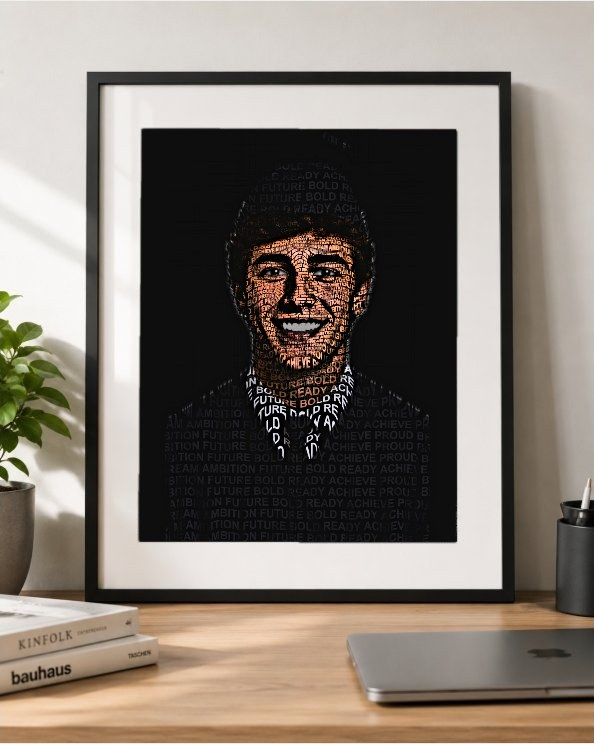
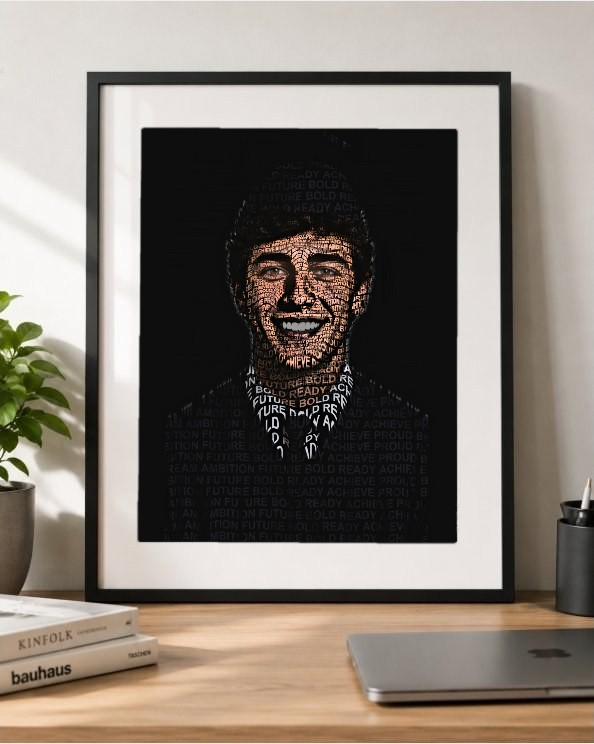
Marketing: refresh typortrait.com showcases (new engine) + add Keeper landing page
Re-rendered every typortrait.com showcase portrait through the current engine
(faithful eyes, lids, natural colour, raccoon fix): hero, the three "one photo,
every look" samples, the use-case renders, and the three framed-room mockups
(re-composited into their frames). Cache-bust v=3 -> v=4.

New co-branded Keeper landing page (marketing/keeper/) cloned from Loved in Words,
re-skinned to Keeper's stone/slate palette, CTAs to ?brand=keeper, fabricated
testimonials removed (a pitch page shouldn't invent quotes). Hero + before/after
is Daryl; gallery is three memorial examples. For the typortrait.com/keeper link.

lovedinwords.com gallery deliberately NOT re-rendered here: it uses the tonal
"words" engine, which is degraded locally (no cairosvg) -- rendering it here would
drop tonal modulation and hurt it. Refresh that on the prod container instead.

Changed region(s): [[0.3939, 0.3091, 0.6364, 0.6183], [0.2121, 0.5565, 0.2424, 0.6183], [0.2121, 0.6801, 0.2424, 0.711]]

diff --git a/typography_engine/marketing/keeper/index.html b/typography_engine/marketing/keeper/index.html
@@ -1,0 +1,179 @@
+<!DOCTYPE html>
+<html lang="en">
+<head>
+<meta charset="UTF-8" />
+<meta name="viewport" content="width=device-width, initial-scale=1" />
+<title>Keeper — a remembrance portrait made from the words that describe them</title>
+<meta name="description" content="A keepsake portrait for the families you serve: a photo of a loved one becomes a likeness composed of the words that remember them — their name, their dates, the way they were loved. A remembrance keepsake, co-branded for Keeper. Free to create and preview." />
+<meta name="robots" content="noindex" />
+<meta property="og:type" content="website" />
+<meta property="og:title" content="Keeper — a portrait of a life, in the words that remember them" />
+<meta property="og:description" content="A memorial keepsake made from a photo and the words that captured who they were." />
+<meta property="og:image" content="https://typortrait.com/keeper/portrait.png" />
+<style>
+@font-face{font-family:'Inter';font-style:normal;font-weight:100 900;font-display:swap;src:url('https://app.typortrait.com/static/fonts/InterVariable.woff2') format('woff2')}
+:root{
+  /* Keeper skin — a cooler stone/slate on warm ivory. */
+  --navy:#3b4a57; --ink:#2b333b; --paper:#f1f0ec; --card:#fbfaf7;
+  --muted:#71776f; --line:#e3e1da;
+  --sans:"Inter",-apple-system,BlinkMacSystemFont,"Segoe UI",Roboto,Helvetica,Arial,sans-serif;
+  --shadow:0 18px 50px rgba(50,55,60,.10);
+}
+*{box-sizing:border-box}
+html{scroll-behavior:smooth}
+body{margin:0; background:var(--paper); color:var(--ink); font-family:var(--sans); line-height:1.6; letter-spacing:-.011em; -webkit-font-smoothing:antialiased; -moz-osx-font-smoothing:grayscale}
+.wrap{max-width:760px; margin:0 auto; padding:0 22px}
+a{color:var(--navy)}
+.brandbar{display:flex; align-items:center; justify-content:center; gap:14px; padding:26px 0 6px; color:var(--muted); font-size:13px; letter-spacing:.01em}
+.brandbar .b{font-weight:800; color:var(--navy); letter-spacing:-.02em; font-size:18px}
+.brandbar .lockup{display:inline-flex; align-items:center; gap:9px}
+.brandbar .heart{display:inline-flex; align-items:center; line-height:0}
+.hero{text-align:center; padding:34px 0 10px}
+.hero .eyebrow{color:var(--muted); font-size:13px; letter-spacing:.14em; text-transform:uppercase; margin-bottom:18px}
+.hero h1{font-weight:800; letter-spacing:-.035em; font-size:clamp(30px,6vw,46px); line-height:1.08; color:var(--navy); margin:0 auto 16px; max-width:16ch}
+.hero p.sub{color:var(--ink); font-size:clamp(16px,2.4vw,19px); max-width:48ch; margin:0 auto 26px}
+.shot{width:100%; max-width:440px; border-radius:16px; box-shadow:var(--shadow); display:block; margin:6px auto 0}
+.ba{position:relative; width:100%; max-width:440px; border-radius:18px; overflow:hidden; box-shadow:var(--shadow); margin:10px auto 0; touch-action:none; user-select:none; cursor:ew-resize}
+.ba img{display:block; width:100%; pointer-events:none}
+.ba-before{position:absolute; top:0; left:0; height:100%; width:45%; overflow:hidden}
+.ba-before img{position:absolute; top:0; left:0; height:100%; width:auto; max-width:none}
+.ba-line{position:absolute; top:0; bottom:0; left:45%; width:2px; background:rgba(255,255,255,.92); transform:translateX(-1px); box-shadow:0 0 6px rgba(0,0,0,.25)}
+.ba-grip{position:absolute; top:50%; left:45%; width:38px; height:38px; margin:-19px 0 0 -19px; border-radius:50%; background:rgba(255,255,255,.96); box-shadow:0 2px 10px rgba(0,0,0,.28); display:flex; align-items:center; justify-content:center; color:var(--navy); font-size:16px}
+.ba-tag{position:absolute; top:12px; font-size:10.5px; letter-spacing:.09em; text-transform:uppercase; color:#fff; background:rgba(59,74,87,.6); padding:4px 9px; border-radius:999px}
+.ba-tag.l{left:12px} .ba-tag.r{right:12px}
+.zoomlink{display:inline-block; margin-top:14px; background:none; border:none; color:var(--navy); font-family:var(--sans); font-size:14px; font-weight:600; letter-spacing:-.01em; cursor:pointer}
+.zoomlink:hover{opacity:.8}
+.zoomview{position:fixed; inset:0; background:rgba(8,8,10,.95); z-index:60; display:none; align-items:flex-start; justify-content:center; overflow:auto; padding:30px 16px}
+.zoomview.on{display:flex}
+.zoomview img{max-width:640px; width:100%; height:auto; border-radius:8px; display:block; box-shadow:0 20px 60px rgba(0,0,0,.5)}
+.zoomclose{position:fixed; top:14px; right:16px; width:42px; height:42px; border-radius:50%; border:none; background:rgba(255,255,255,.94); color:var(--navy); font-size:24px; line-height:1; cursor:pointer; z-index:61; box-shadow:0 2px 10px rgba(0,0,0,.3)}
+.btn{display:inline-block; background:var(--navy); color:#fff; text-decoration:none; font-weight:700; font-size:17px; letter-spacing:-.01em; padding:15px 34px; border-radius:999px; transition:transform .15s ease, box-shadow .15s ease; box-shadow:0 8px 24px rgba(59,74,87,.18)}
+.btn:hover{transform:translateY(-1px); box-shadow:0 12px 30px rgba(59,74,87,.24)}
+.free{display:block; color:var(--muted); font-size:13.5px; margin-top:12px}
+section{padding:46px 0}
+h2{font-weight:800; letter-spacing:-.03em; font-size:clamp(22px,3.6vw,30px); color:var(--navy); text-align:center; margin:0 0 8px}
+.lede{color:var(--muted); text-align:center; max-width:48ch; margin:0 auto 30px}
+.steps{display:grid; gap:16px}
+@media(min-width:640px){.steps{grid-template-columns:repeat(3,1fr)}}
+.step{background:var(--card); border:1px solid var(--line); border-radius:16px; padding:22px}
+.step .n{width:30px; height:30px; border-radius:50%; background:var(--navy); color:#fff; font-weight:700; font-size:14px; display:flex; align-items:center; justify-content:center; margin-bottom:12px}
+.step h3{margin:0 0 6px; font-size:16.5px; color:var(--navy); font-weight:700; letter-spacing:-.01em}
+.step p{margin:0; color:var(--muted); font-size:14.5px}
+.gallery{display:grid; gap:16px; margin:0; grid-template-columns:repeat(auto-fit,minmax(210px,1fr))}
+.gcard{margin:0; background:var(--card); border:1px solid var(--line); border-radius:16px; overflow:hidden; box-shadow:var(--shadow)}
+.gcard img{width:100%; display:block; aspect-ratio:4/5; object-fit:cover}
+.gcard figcaption{padding:13px 16px; color:var(--muted); font-size:13.5px; text-align:center; font-style:italic; line-height:1.45}
+.facts{display:flex; flex-wrap:wrap; justify-content:center; gap:10px 18px; color:var(--ink); font-size:15px; text-align:center}
+.facts b{color:var(--navy)}
+.dot{color:var(--line)}
+.reassure{text-align:center; color:var(--muted); max-width:46ch; margin:0 auto}
+.close{text-align:center; padding:8px 0 56px}
+footer{border-top:1px solid var(--line); padding:26px 0 40px; text-align:center; color:var(--muted); font-size:13px}
+footer a{color:var(--muted); text-decoration:none}
+footer .by{display:block; margin-top:8px; font-size:12px; color:var(--muted); opacity:.85}
+</style>
+</head>
+<body>
+<div class="wrap">
+
+  <div class="brandbar">
+    <span class="lockup">
+      <span class="heart" aria-hidden="true"><svg viewBox="0 0 64 64" width="22" height="22" fill="none"><path d="M32 54s-1.2-1-3.3-2.7C16.8 41.7 8 34 8 23.8 8 16.6 13.4 11 20.4 11c4.3 0 8.5 2.2 11.6 6.1C35.1 13.2 39.3 11 43.6 11 50.6 11 56 16.6 56 23.8 56 34 47.2 41.7 35.3 51.3 33.2 53 32 54 32 54z" stroke="#7d8a93" stroke-width="3.3" stroke-linejoin="round"/></svg></span>
+      <span class="b">Keeper Memorials</span>
+    </span>
+  </div>
+
+  <header class="hero">
+    <div class="eyebrow">In loving memory</div>
+    <h1>A keepsake portrait, in the words that remember them.</h1>
+    <p class="sub">A favorite photo of someone a family has lost becomes a portrait of their likeness — composed of their name, their dates, and the words that captured who they were. Printed, framed, and ready to keep or to give.</p>
+    <a class="btn" href="https://app.typortrait.com/?brand=keeper">Create a remembrance keepsake</a>
+    <span class="free">Free to create and preview — order only if it feels right.</span>
+    <img class="shot" src="portrait.png?v=1" alt="A lifelike memorial portrait made from words" />
+    <button type="button" class="zoomlink" id="zoomBtn">&#128269; View the words up close</button>
+  </header>
+
+  <section>
+    <h2>Made from a photo and the words you choose</h2>
+    <p class="lede">Drag to see the change — their photograph becomes a portrait of the words that remember them.</p>
+    <div class="ba" id="ba" aria-label="Drag to compare the photograph and the portrait made from words">
+      <img class="ba-after" src="portrait.png?v=1" alt="A portrait made from the words that describe him" />
+      <div class="ba-before" id="baBefore"><img src="before.jpg?v=1" alt="The original photograph" /></div>
+      <div class="ba-line" id="baLine"></div>
+      <div class="ba-grip" id="baGrip">&#8596;</div>
+      <span class="ba-tag l">their photo</span>
+      <span class="ba-tag r">in their words</span>
+    </div>
+  </section>
+
+  <section>
+    <h2>A few remembrances</h2>
+    <p class="lede">Each one is made entirely from the words a family chose — a name, the dates, the way they were loved.</p>
+    <div class="gallery">
+      <figure class="gcard"><img src="example-1.png?v=1" loading="lazy" alt="A memorial word-portrait of a mother, formed from words like mother, grace, faith and gentle" /><figcaption>Mother, Grace, Faith, Gentle — woven into her likeness.</figcaption></figure>
+      <figure class="gcard"><img src="example-2.png?v=1" loading="lazy" alt="A memorial word-portrait of a grandmother, formed from words like grandma, warm, faithful and patient" /><figcaption>Grandma, Warm, Faithful, Patient — the words that were her.</figcaption></figure>
+      <figure class="gcard"><img src="example-3.png?v=1" loading="lazy" alt="A memorial word-portrait of a father, formed from words like father, grandpa, mentor and wise" /><figcaption>Father, Grandpa, Mentor, Wise — every word that was him.</figcaption></figure>
+    </div>
+  </section>
+
+  <section>
+    <h2>How it comes together</h2>
+    <p class="lede">Three quiet steps. No design skills, no rush.</p>
+    <div class="steps">
+      <div class="step"><div class="n">1</div><h3>Add a photo</h3><p>A clear photo of their loved one — the one that feels like them.</p></div>
+      <div class="step"><div class="n">2</div><h3>Add the words</h3><p>Their name, the traits the family remembers, a date, a line from a tribute.</p></div>
+      <div class="step"><div class="n">3</div><h3>Order the keepsake</h3><p>A framed or archival print for the home and the family — the high-resolution digital file comes free with it.</p></div>
+    </div>
+  </section>
+
+  <section style="padding-top:20px">
+    <div class="facts">
+      <span>Prints from <b>$16</b></span><span class="dot">•</span>
+      <span>Family sets from <b>$67</b></span><span class="dot">•</span>
+      <span>High-res digital file <b>included free</b></span><span class="dot">•</span>
+      <span><b>Watermark-free</b></span><span class="dot">•</span>
+      <span>Or a digital keepsake <b>$14.99</b></span>
+    </div>
+  </section>
+
+  <section style="padding-top:6px">
+    <p class="reassure">Free to create and preview — there's no cost until a family decides to order. Their photo stays private, and nothing is shared.</p>
+    <div class="close">
+      <a class="btn" href="https://app.typortrait.com/?brand=keeper">Begin a portrait</a>
+    </div>
+  </section>
+
+</div>
+<footer>
+  Keeper Memorials &nbsp;·&nbsp;
+  <a href="https://app.typortrait.com/terms">Terms</a> · <a href="https://app.typortrait.com/privacy">Privacy</a> · <a href="https://app.typortrait.com/data-request">Manage my data</a>
+  <span class="by">A remembrance keepsake, powered by Typortrait.</span>
+</footer>
+<div class="zoomview" id="zoomView">
+  <button class="zoomclose" id="zoomClose" aria-label="Close">&times;</button>
+  <img src="portrait.png?v=1" alt="The portrait up close — made from the words that remember them" />
+</div>
+<script>
+(function(){
+  var ba=document.getElementById('ba'); if(!ba) return;
+  var before=document.getElementById('baBefore'), line=document.getElementById('baLine'), grip=document.getElementById('baGrip');
+  function set(pct){ pct=Math.max(6,Math.min(94,pct)); before.style.width=pct+'%'; line.style.left=pct+'%'; grip.style.left=pct+'%'; }
+  function at(e){ var r=ba.getBoundingClientRect(); var cx=(e.touches?e.touches[0].clientX:e.clientX)-r.left; set(cx/r.width*100); }
+  var on=false;
+  ba.addEventListener('pointerdown', function(e){ on=true; try{ba.setPointerCapture(e.pointerId);}catch(_){} at(e); });
+  ba.addEventListener('pointermove', function(e){ if(on) at(e); });
+  window.addEventListener('pointerup', function(){ on=false; });
+  set(45);
+})();
+(function(){
+  var z=document.getElementById('zoomView'), btn=document.getElementById('zoomBtn'), cls=document.getElementById('zoomClose');
+  if(!z||!btn) return;
+  function open(){ z.classList.add('on'); document.body.style.overflow='hidden'; }
+  function close(){ z.classList.remove('on'); document.body.style.overflow=''; }
+  btn.addEventListener('click', open); cls.addEventListener('click', close);
+  z.addEventListener('click', function(e){ if(e.target===z) close(); });
+  document.addEventListener('keydown', function(e){ if(e.key==='Escape') close(); });
+})();
+</script>
+</body>
+</html>

diff --git a/typography_engine/marketing/_deploy/index.html b/typography_engine/marketing/_deploy/index.html
@@ -12,7 +12,7 @@
 <meta name="robots" content="index,follow" />
 <meta name="p:domain_verify" content="f1db28b51e8847f102c978992b645d49"/>
 <meta name="theme-color" content="#faf9f7" />
-<link rel="preload" as="image" href="/hero-after.jpg?v=3" fetchpriority="high" />
+<link rel="preload" as="image" href="/hero-after.jpg?v=4" fetchpriority="high" />
 <link rel="icon" href="/favicon.ico" sizes="any" />
 <link rel="icon" type="image/png" sizes="32x32" href="/favicon-32.png" />
 <link rel="apple-touch-icon" href="/apple-touch-icon.png" />
@@ -265,7 +265,7 @@ footer a:hover{color:#fff}
 
       <figure class="hero-ba">
         <div class="ba-frame" id="baFrame" tabindex="0" role="slider" aria-label="Before and after — drag or use arrow keys to compare the photo with the Typortrait" aria-orientation="horizontal" aria-valuemin="0" aria-valuemax="100" aria-valuenow="50">
-          <img class="ba-after" id="baAfter" src="/hero-after.jpg?v=3" width="1100" height="1100" fetchpriority="high" decoding="async" alt="A Typortrait portrait composed entirely from the words below" />
+          <img class="ba-after" id="baAfter" src="/hero-after.jpg?v=4" width="1100" height="1100" fetchpriority="high" decoding="async" alt="A Typortrait portrait composed entirely from the words below" />
           <div class="ba-before-wrap" id="baBeforeWrap"><img class="ba-before" id="baBefore" src="/hero-before.jpg" width="1100" height="1100" fetchpriority="high" decoding="async" alt="The original photo, before Typortrait" /></div>
           <div class="ba-divider" id="baDivider"><span class="ba-knob">&#8596;</span></div>
           <span class="ba-tag ba-tag-l">Photo</span>
@@ -313,9 +313,9 @@ footer a:hover{color:#fff}
       <h2 class="statement">One photo, every look.</h2>
       <p class="support">The same face, a few different styles — for anniversaries, memorials, weddings, birthdays and more.</p>
       <div class="cards">
-        <figure class="shot"><button type="button" class="shot-btn js-zoom" data-full="/sample-1.jpg?v=3" aria-label="Enlarge sample — Navy, Sculpt style"><img src="/sample-1.jpg?v=3" width="720" height="720" loading="lazy" alt="Typortrait Sculpt portrait — navy, photographic word colour" /></button><figcaption>Navy &middot; Sculpt</figcaption></figure>
-        <figure class="shot"><button type="button" class="shot-btn js-zoom" data-full="/sample-2.jpg?v=3" aria-label="Enlarge sample — Ivory, Sculpt style"><img src="/sample-2.jpg?v=3" width="720" height="720" loading="lazy" alt="Typortrait Sculpt portrait — ivory ink-drawing on warm paper" /></button><figcaption>Ivory &middot; Sculpt</figcaption></figure>
-        <figure class="shot"><button type="button" class="shot-btn js-zoom" data-full="/sample-3.jpg?v=3" aria-label="Enlarge sample — Ember, Sculpt style"><img src="/sample-3.jpg?v=3" width="720" height="720" loading="lazy" alt="Typortrait Sculpt portrait — gold words on black" /></button><figcaption>Ember &middot; Sculpt</figcaption></figure>
+        <figure class="shot"><button type="button" class="shot-btn js-zoom" data-full="/sample-1.jpg?v=4" aria-label="Enlarge sample — Navy, Sculpt style"><img src="/sample-1.jpg?v=4" width="720" height="720" loading="lazy" alt="Typortrait Sculpt portrait — navy, photographic word colour" /></button><figcaption>Navy &middot; Sculpt</figcaption></figure>
+        <figure class="shot"><button type="button" class="shot-btn js-zoom" data-full="/sample-2.jpg?v=4" aria-label="Enlarge sample — Ivory, Sculpt style"><img src="/sample-2.jpg?v=4" width="720" height="720" loading="lazy" alt="Typortrait Sculpt portrait — ivory ink-drawing on warm paper" /></button><figcaption>Ivory &middot; Sculpt</figcaption></figure>
+        <figure class="shot"><button type="button" class="shot-btn js-zoom" data-full="/sample-3.jpg?v=4" aria-label="Enlarge sample — Ember, Sculpt style"><img src="/sample-3.jpg?v=4" width="720" height="720" loading="lazy" alt="Typortrait Sculpt portrait — gold words on black" /></button><figcaption>Ember &middot; Sculpt</figcaption></figure>
       </div>
       <div class="actions" style="margin-top:40px"><a class="button" href="https://app.typortrait.com">Make one like this</a></div>
     </div>
@@ -328,22 +328,22 @@ footer a:hover{color:#fff}
       <p class="support">A keepsake built from the words that define someone — for the people and milestones you’ll never forget.</p>
       <div class="cards">
         <article class="use-card">
-          <button type="button" class="use-shot js-zoom" data-full="/use-children.jpg?v=3" aria-label="Enlarge a Children word-art portrait">
-            <img src="/use-children.jpg?v=3" width="720" height="720" loading="lazy" alt="Typortrait word-art portrait of a child" onerror="this.closest('.use-shot').classList.add('noimg')" />
+          <button type="button" class="use-shot js-zoom" data-full="/use-children.jpg?v=4" aria-label="Enlarge a Children word-art portrait">
+            <img src="/use-children.jpg?v=4" width="720" height="720" loading="lazy" alt="Typortrait word-art portrait of a child" onerror="this.closest('.use-shot').classList.add('noimg')" />
             <span class="ph"><b>Children render</b>use-children.jpg</span>
           </button>
           <div class="use-body"><h3>Children</h3><p>Capture their sweetness, spirit and personality in the words you’d use to describe them.</p></div>
         </article>
         <article class="use-card">
-          <button type="button" class="use-shot js-zoom" data-full="/use-memorial.jpg?v=3" aria-label="Enlarge a Memorial word-art portrait">
-            <img src="/use-memorial.jpg?v=3" width="720" height="720" loading="lazy" alt="Typortrait word-art memorial portrait" onerror="this.closest('.use-shot').classList.add('noimg')" />
+          <button type="button" class="use-shot js-zoom" data-full="/use-memorial.jpg?v=4" aria-label="Enlarge a Memorial word-art portrait">
+            <img src="/use-memorial.jpg?v=4" width="720" height="720" loading="lazy" alt="Typortrait word-art memorial portrait" onerror="this.closest('.use-shot').classList.add('noimg')" />
             <span class="ph"><b>Memorial render</b>use-memorial.jpg</span>
           </button>
           <div class="use-body"><h3>Memorials</h3><p>Honor someone special with the words that shaped their life — a portrait that speaks.</p></div>
         </article>
         <article class="use-card">
-          <button type="button" class="use-shot js-zoom" data-full="/use-graduate.jpg?v=3" aria-label="Enlarge a Graduate word-art portrait">
-            <img src="/use-graduate.jpg?v=3" width="720" height="720" loading="lazy" alt="Typortrait word-art portrait of a graduate" onerror="this.closest('.use-shot').classList.add('noimg')" />
+          <button type="button" class="use-shot js-zoom" data-full="/use-graduate.jpg?v=4" aria-label="Enlarge a Graduate word-art portrait">
+            <img src="/use-graduate.jpg?v=4" width="720" height="720" loading="lazy" alt="Typortrait word-art portrait of a graduate" onerror="this.closest('.use-shot').classList.add('noimg')" />
             <span class="ph"><b>Graduate render</b>use-graduate.jpg</span>
           </button>
           <div class="use-body"><h3>Graduates</h3><p>A personal gift that celebrates who they are and who they’re becoming.</p></div>
@@ -359,22 +359,22 @@ footer a:hover{color:#fff}
       <p class="support">Order your portrait as a framed print, gallery canvas, poster or tee — printed and shipped worldwide, from $15.</p>
       <div class="cards">
         <article class="use-card">
-          <button type="button" class="use-shot print-shot js-zoom" data-full="/mock-children.jpg?v=3" aria-label="Enlarge a framed Children word-art print">
-            <img src="/mock-children.jpg?v=3" width="900" height="1125" loading="lazy" alt="Framed word-art portrait of a child, matted in a light-oak frame on a wall" onerror="this.closest('.use-shot').classList.add('noimg')" />
+          <button type="button" class="use-shot print-shot js-zoom" data-full="/mock-children.jpg?v=4" aria-label="Enlarge a framed Children word-art print">
+            <img src="/mock-children.jpg?v=4" width="900" height="1125" loading="lazy" alt="Framed word-art portrait of a child, matted in a light-oak frame on a wall" onerror="this.closest('.use-shot').classList.add('noimg')" />
             <span class="ph"><b>Children mockup</b>mock-children.jpg</span>
           </button>
           <div class="use-body"><h3>Children</h3><p class="words">Words like <b>joy &middot; brave &middot; curious &middot; sunshine &middot; silly &middot; loved</b></p></div>
         </article>
         <article class="use-card">
-          <button type="button" class="use-shot print-shot js-zoom" data-full="/mock-memorial.jpg?v=3" aria-label="Enlarge a framed Memorial word-art print">
-            <img src="/mock-memorial.jpg?v=3" width="900" height="1125" loading="lazy" alt="Framed word-art memorial portrait, matted in a walnut frame on a console" onerror="this.closest('.use-shot').classList.add('noimg')" />
+          <button type="button" class="use-shot print-shot js-zoom" data-full="/mock-memorial.jpg?v=4" aria-label="Enlarge a framed Memorial word-art print">
+            <img src="/mock-memorial.jpg?v=4" width="900" height="1125" loading="lazy" alt="Framed word-art memorial portrait, matted in a walnut frame on a console" onerror="this.closest('.use-shot').classList.add('noimg')" />
             <span class="ph"><b>Memorial mockup</b>mock-memorial.jpg</span>
           </button>
           <div class="use-body"><h3>Memorials</h3><p class="words">Words like <b>beloved &middot; gentle &middot; grace &middot; faith &middot; always &middot; home</b></p></div>
         </article>
         <article class="use-card">
-          <button type="button" class="use-shot print-shot js-zoom" data-full="/mock-graduate.jpg?v=3" aria-label="Enlarge a framed Graduate word-art print">
-            <img src="/mock-graduate.jpg?v=3" width="900" height="1125" loading="lazy" alt="Framed word-art portrait of a graduate, matted in a black frame on a desk" onerror="this.closest('.use-shot').classList.add('noimg')" />
+          <button type="button" class="use-shot print-shot js-zoom" data-full="/mock-graduate.jpg?v=4" aria-label="Enlarge a framed Graduate word-art print">
+            <img src="/mock-graduate.jpg?v=4" width="900" height="1125" loading="lazy" alt="Framed word-art portrait of a graduate, matted in a black frame on a desk" onerror="this.closest('.use-shot').classList.add('noimg')" />
             <span class="ph"><b>Graduate mockup</b>mock-graduate.jpg</span>
           </button>
           <div class="use-body"><h3>Graduates</h3><p class="words">Words like <b>dream &middot; ambition &middot; future &middot; bold &middot; ready &middot; achieve</b></p></div>
@@ -407,7 +407,7 @@ footer a:hover{color:#fff}
       <div class="tstx-grid">
         <figure class="tstx-card">
           <div class="tba" style="--p:55%">
-            <img class="tba-after" src="/tst-grandma-after.jpg?v=3" width="880" height="1100" loading="lazy" alt="A Lifelike word-portrait of a grandmother, made from the words that describe her" />
+            <img class="tba-after" src="/tst-grandma-after.jpg?v=4" width="880" height="1100" loading="lazy" alt="A Lifelike word-portrait of a grandmother, made from the words that describe her" />
             <div class="tba-before"><img src="/tst-grandma-before.jpg" width="880" height="1100" loading="lazy" alt="The original photo of a grandmother" /></div>
             <span class="tba-tag l">Photo</span><span class="tba-tag r">In words</span>
             <div class="tba-line"></div><div class="tba-grip">&#8596;</div>
@@ -419,7 +419,7 @@ footer a:hover{color:#fff}
         </figure>
         <figure class="tstx-card">
           <div class="tba" style="--p:55%">
-            <img class="tba-after" src="/tst-poppy-after.jpg?v=3" width="880" height="1100" loading="lazy" alt="A Lifelike word-portrait of a grandfather, made from the words that describe him" />
+            <img class="tba-after" src="/tst-poppy-after.jpg?v=4" width="880" height="1100" loading="lazy" alt="A Lifelike word-portrait of a grandfather, made from the words that describe him" />
             <div class="tba-before"><img src="/tst-poppy-before.jpg" width="880" height="1100" loading="lazy" alt="The original photo of a grandfather" /></div>
             <span class="tba-tag l">Photo</span><span class="tba-tag r">In words</span>
             <div class="tba-line"></div><div class="tba-grip">&#8596;</div>
